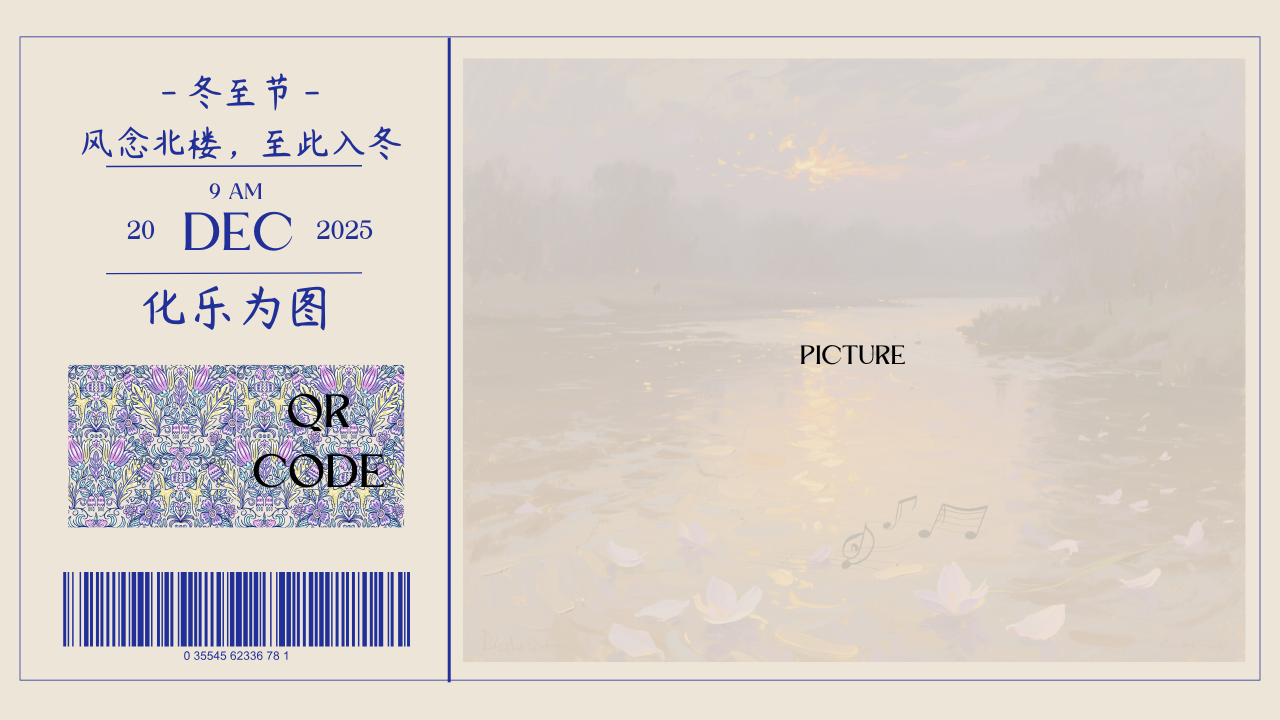
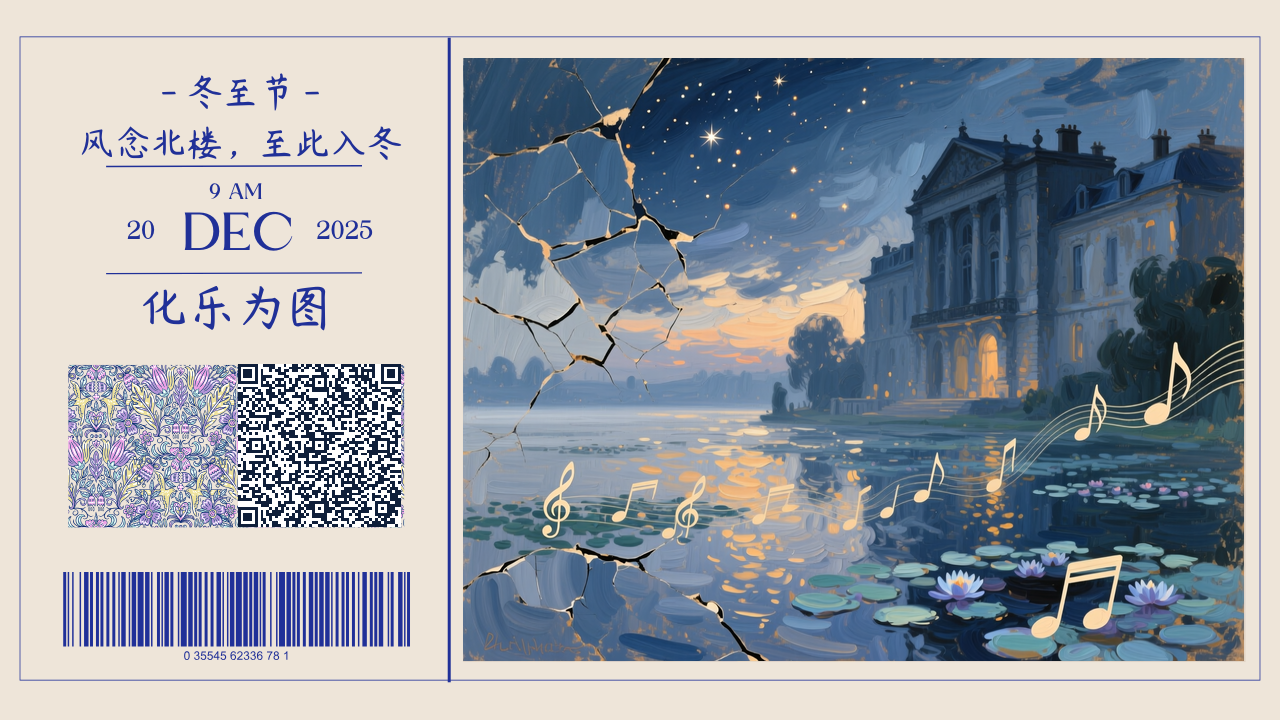
change template

diff --git a/web/index.html b/web/index.html
@@ -904,8 +904,8 @@
       const shareUrl = location.origin + sharePath;
       shareStatus.textContent = "生成分享卡片中...";
       try {
-        // Generate a smaller QR to fit the template slot; keep it 1:1 pasted on server.
-        const qrDataUrl = await generateQrDataUrl(shareUrl, 160);
+        // Generate QR close to the slot size, then paste 1:1 on server to keep it sharp and easy to scan.
+        const qrDataUrl = await generateQrDataUrl(shareUrl, 600);
         const resp = await fetch("/api/render-share-card", {
           method: "POST",
           headers: { "Content-Type": "application/json" },

diff --git a/web_app.py b/web_app.py
@@ -35,7 +35,8 @@ FILES_DIR = DATA_DIR / "files"
 OUTPUT_DIR = DATA_DIR / "output"
 PROMPTS_DIR = DATA_DIR / "prompts"
 IMAGE_DIR = DATA_DIR / "image"
-TEMPLATE_FILE = ROOT / "assets" / "template.png"
+# Rendering template (production). `assets/template.png` is only for README preview.
+TEMPLATE_FILE = ROOT / "template.png"
 CARDS_DIR = OUTPUT_DIR / "cards"
 SHARES_FILE = DATA_DIR / "shares.json"
 
@@ -449,8 +450,8 @@ class AppHandler(SimpleHTTPRequestHandler):
             self._send_json({"ok": False, "error": str(exc)}, status=500)
             return
 
-        ai_box = (463, 58, 1245, 661)
-        qr_box = (236, 364, 404, 527)
+        ai_box = (776, 38, 2773, 1577)
+        qr_box = (49, 1310, 723, 1961)
         resampling = getattr(Image, "Resampling", Image)
         paste_contain(base, ai_img, ai_box, resample=getattr(resampling, "LANCZOS", Image.LANCZOS))
         # QR: avoid non-integer scaling (hurts scanning). If it fits, paste 1:1 centered.

diff --git a/README.md b/README.md
@@ -25,11 +25,15 @@ Web MIDI is blocked on plain HTTP for public IPs. If you don’t have a domain/c
 
 It prints a `https://xxxx.trycloudflare.com` URL. Open that URL in Chrome/Edge to use MIDI.
 
-## Template Share Card (`assets/template.png`)
+## Template Share Card
 
-The server renders a final share card image using `assets/template.png`:
-- AI image is placed into rectangle `(x1,y1,x2,y2) = (463,58,1245,661)`
-- QR code (links to a download page with MP3/timeline/AI image) is placed into `(236,364,404,527)`
+This repo contains **two** template images:
+- `template.png` (root): the **actual rendering template** used by the server
+- `assets/template.png`: **README preview/demo** only
+
+The server renders a final share card image using `template.png`:
+- AI image is placed into rectangle `(x1,y1,x2,y2) = (776,38,2773,1577)`
+- QR code (links to a download page with MP3/timeline/AI image) is placed into `(49,1310,723,1961)`
 
 The rendered share card is saved under `data/output/cards/` and the web page shows a QR code that downloads this card image.
 
@@ -95,6 +99,7 @@ Create `.dashscope_config.json` in the project root:
 .
 ├── assets/
 │   └── template.png
+├── template.png           (rendering template)
 ├── web/
 │   ├── index.html
 │   └── qrcode.min.js
